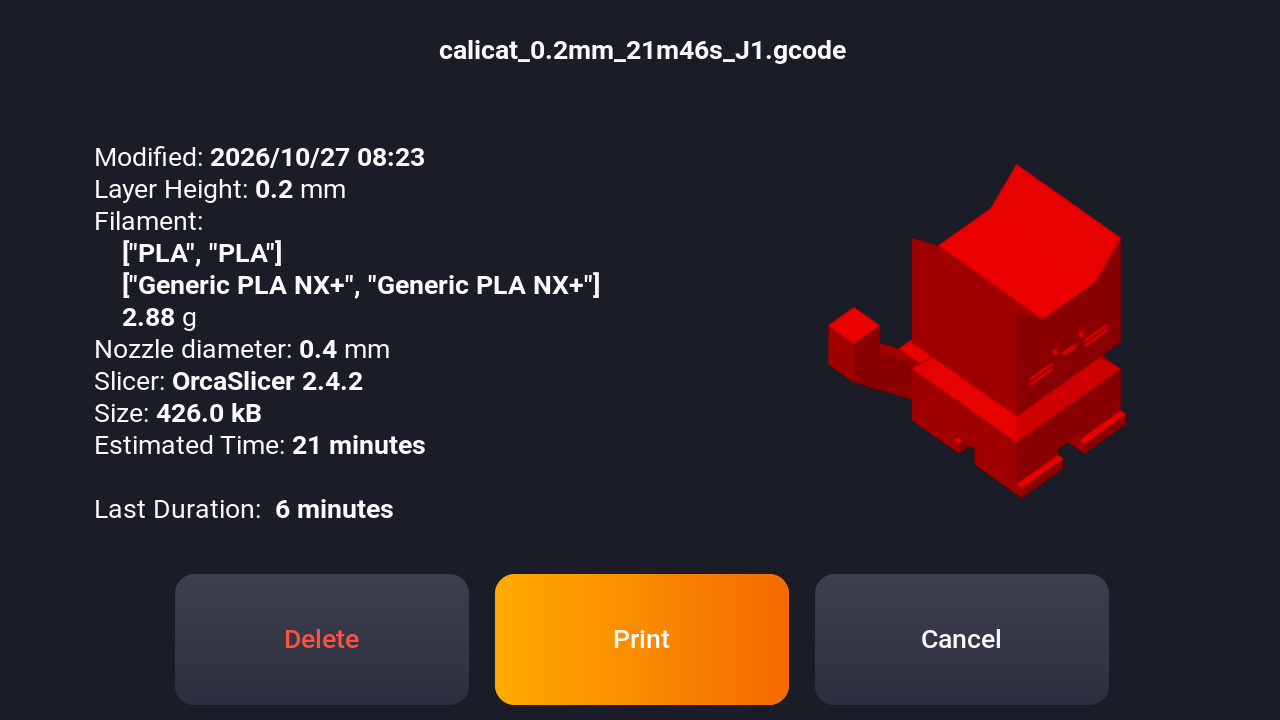
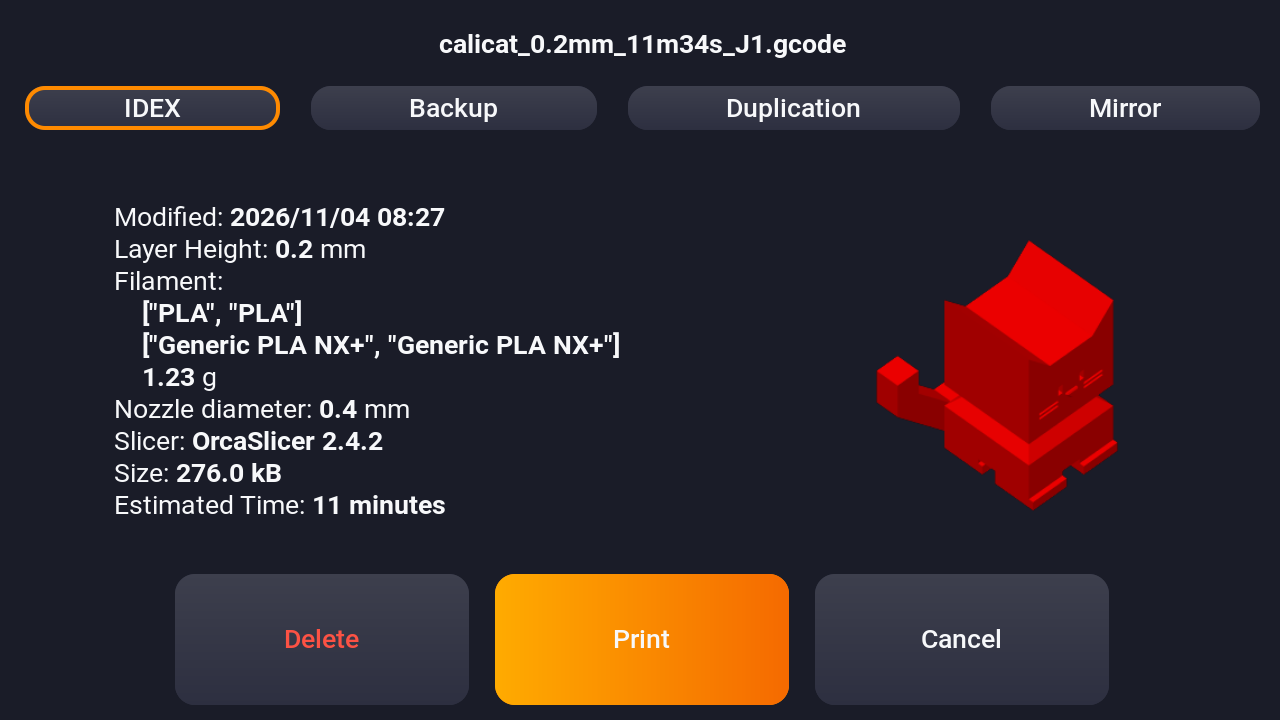
Print mode: Six files per page, docs and screenshots of the print mode
Eight files did not fit the dialog of Mainsail without scrolling; the filament length is shown as in the file list of Mainsail.  The manual and README describe the print mode choice, the retraction warning and the Mainsail panel, with new screenshots; web-macros.png is gone with the long macro panel.

Changed region(s): [[0.0, 0.1222, 1.0, 0.7333], [0.625, 0.2139, 0.875, 0.7028], [0.3438, 0.0306, 0.6562, 0.0917]]

diff --git a/klippy/extras/snapmaker_j1.py b/klippy/extras/snapmaker_j1.py
@@ -56,8 +56,9 @@ MODE_NAMES = {'FULL_CONTROL': 'IDEX', 'BACKUP': 'Backup',
               'DUPLICATION': 'Duplication', 'MIRROR': 'Mirror'}
 # Retraction distance above which a print asks first (stock)
 MAX_RETRACTION = 2.
-# Files offered by SNAPMAKER_PRINT_MODE (the newest first)
-PM_FILES = 8
+# Files per page of SNAPMAKER_PRINT_MODE (the newest first); more do not
+# fit the dialog of Mainsail without scrolling
+PM_FILES = 6
 
 def load_print_file():
     spec = importlib.util.spec_from_file_location('snapmaker_j1_print_file',

diff --git a/scripts/snapmaker_j1_print_file.py b/scripts/snapmaker_j1_print_file.py
@@ -329,7 +329,9 @@ def summary(path):
     if time:
         parts.append("Print time: " + time)
     if length:
-        parts.append("Filament: %.0f mm" % length)
+        # As in the file list of Mainsail
+        parts.append("Filament: %.2f m" % (length / 1000.) if length >= 1000.
+                     else "Filament: %.0f mm" % length)
     return ", ".join(parts)
 
 

diff --git a/docs/Manual.md b/docs/Manual.md
@@ -104,7 +104,8 @@ slicer.  You can sort them by name, date or size.  The folder
 
 Tapping a file shows its details: layer height, filament, nozzle
 diameter, slicer, estimated time and the duration of the last print.
-**Print** starts it, **Delete** removes the file.
+The buttons at the top choose the [print mode](#print-modes).  **Print**
+starts the file, **Delete** removes it.
 
 ### Nozzle diameter check
 
@@ -119,6 +120,21 @@ differ, it asks before printing:
 
 The nozzles are detected by the identification resistor in the hotend.
 The same dialog also appears in Mainsail and Fluidd.
+
+### Retraction warning
+
+![Inappropriate retraction distance](manual/retraction-check.png)
+
+As on the stock display, a file that retracts more than 2 mm asks first,
+because that can clog the nozzle.  The dialog follows the nozzle diameter
+check, for every print start (touch screen, web interface, slicer):
+
+- **Cancel:** the print is not started.
+- **Continue Anyway:** the print starts.
+
+The value comes from the slicer settings in the file; in OrcaSlicer, the
+retraction of the filament profile counts if it sets one, otherwise that
+of the printer profile.
 
 ### Print modes
 
@@ -149,23 +165,9 @@ The purge line of the start G-code stays where it is and does not count
 its first layer on.  For that the printer prints a copy of the file from
 the folder `snapmaker_j1/print_mode` (only the last one is kept).
 
-In Mainsail or Fluidd, the macro **SNAPMAKER_PRINT_MODE** opens the same
-choice as a dialog: first the file (a list of the newest, eight per page,
-with print time and filament), then the mode; a print started without it
-prints in the mode of the file.  Mainsail shows it in the panel
-**Snapmaker J1** at the top of its dashboard (while paused, also heating
-the print again).  The printer sets this panel up once, as long as the
-macros of Mainsail are not set up otherwise (Mainsail then uses its
-expert macro mode; Settings → Macros switches back), and shows the
-dialogs of macros as lists (`.theme/custom.css` in the configuration,
-unless it holds a theme of your own).
-
 Reading a large file takes a few seconds; the mode buttons work once it
-is done.
-
-Like the nozzle diameter check, every print start asks first if the file
-retracts more than 2 mm (risk of a clogged nozzle): **Cancel** or
-**Continue Anyway**.
+is done.  In the web interface, the [print mode](#print-mode-in-the-browser)
+is chosen with a macro.
 
 During the print, the print page shows the mode next to the elapsed time,
 and the part fans of both toolheads.
@@ -720,7 +722,8 @@ always show the same state.
 
 ![Mainsail dashboard](manual/web-dashboard.png)
 
-The dashboard shows the printer state with the recent files, the
+The dashboard shows the printer state with the recent files, the panel
+**Snapmaker J1** with the [print mode](#print-mode-in-the-browser), the
 temperatures of **Extruder** (left nozzle), **Extruder1** (right nozzle)
 and **Heater Bed** with their history, the toolhead and the console.
 
@@ -750,23 +753,49 @@ and **Heater Bed** with their history, the toolhead and the console.
 
 ![Nozzle diameter dialog in Mainsail](manual/web-prompt.png)
 
-The [nozzle diameter check](#nozzle-diameter-check) at the start of a
-print and the [missing hotend](#missing-hotend) message appear in the
-browser as well as on the touch screen; answering in one place closes the
+The [nozzle diameter check](#nozzle-diameter-check) and the
+[retraction warning](#retraction-warning) at the start of a print and the
+[missing hotend](#missing-hotend) message appear in the browser as well as on the touch screen; answering in one place closes the
 dialog in the other.  The filament runout and change dialog and the
 [power loss recovery](#power-loss-recovery) are shown on the touch
 screen only: in the browser, a paused print is continued with
 **Resume**.
 
+### Print mode in the browser
+
+<img src="manual/web-panel.png" width="474">
+
+A print started with **Upload & Print** or in **G-Code Files** prints in
+the mode of the file.  To choose another mode, tap
+**SNAPMAKER PRINT MODE** in the panel **Snapmaker J1**.  While a print is
+paused, the panel also offers **SNAPMAKER PAUSE HEAT** (heat the print
+again).
+
+<table>
+<tr><td><img src="manual/web-print-mode-files.png" width="400"><br>1. Choose the file: the newest first, six per page (<b>Older</b> and <b>Newer</b> turn the pages).</td>
+<td><img src="manual/web-print-mode.png" width="400"><br>2. Choose the mode: the mode of the file is highlighted, a mode that does not fit the file is listed with the reason.  The print starts with this tap.</td></tr>
+</table>
+
+The checks and the moving of the print are those of the
+[touch screen](#print-modes).  In Fluidd, the macro
+`SNAPMAKER_PRINT_MODE` opens the same dialogs.
+
+The printer sets the panel up once, as long as the macros of Mainsail are
+not set up otherwise: Mainsail then uses its expert macro mode, without
+the long **Macros** panel (**Settings → Macros** switches back).  The
+list look of these dialogs comes from `.theme/custom.css` in the
+configuration, which the printer writes unless it holds a theme of your
+own.
+
 ### Macros
 
-<img src="manual/web-macros.png" width="420">
-
-The **Macros** panel lists the J1 commands, among them:
+All J1 commands can be typed in the console, or be added to a panel in
+**Settings → Macros**, among them:
 
 | Macro | Function |
 | --- | --- |
 | `SNAPMAKER_LOAD_FILAMENT`, `SNAPMAKER_UNLOAD_FILAMENT` | heat a toolhead and load or unload filament (`TOOL=0` or `1`) |
+| `SNAPMAKER_PRINT_MODE` | [choose a file and its print mode](#print-mode-in-the-browser) (`FILENAME=` skips the file list) |
 | `SNAPMAKER_SET_PRINT_MODE` | IDEX mode: full control, duplication, mirror, backup |
 | `SNAPMAKER_NOISE_MODE` | stock noise mode: normal, silent, loud |
 | `SNAPMAKER_SET_PAUSE_STANDBY`, `SNAPMAKER_PAUSE_HEAT` | [pause standby](#pause-standby) and heating a paused print again |
@@ -841,8 +870,8 @@ host with `snapmaker-j1.local`.
 
 | Area | Function |
 | --- | --- |
-| Printing | IDEX, duplication, mirror and backup mode from the file header; tool changes with parking; pause and resume with parking, priming and wiping |
-| Print start | nozzle diameter check against the installed nozzles |
+| Printing | IDEX, duplication, mirror and backup mode from the file or chosen on the touch screen or in the browser, with the model moved in X; tool changes with parking; pause and resume with parking, priming and wiping |
+| Print start | nozzle diameter check against the installed nozzles, retraction warning above 2 mm |
 | Filament | motion sensors on both toolheads, runout and change dialog, load and unload beside the wipers |
 | Power loss | recovery of the interrupted print, offered on the screen at the next start |
 | Calibration | bed leveling, Z offset, XY offset (assisted and manual), offset check, vibration compensation, PID auto tune, build plate thickness |

diff --git a/README.md b/README.md
@@ -92,8 +92,10 @@ results are stored at once, without a restart.
 ### Two toolheads, all IDEX modes
 
 Full control, duplication, mirror and backup mode, taken from the print
-file.  Both nozzles are checked against the file before the print
-starts.
+file or chosen before the print, on the touch screen or in the browser:
+the printer moves the model to where the mode needs it.  Before the print
+starts, both nozzles are checked against the file, and too long a
+retraction gets a warning.
 
 <table>
 <tr>
@@ -101,8 +103,8 @@ starts.
 <td><img src="docs/manual/nozzle-check.png" width="420" alt="Nozzle diameter check"></td>
 </tr>
 <tr>
-<td>Print files with thumbnail and slicer data</td>
-<td>Nozzle check before the print</td>
+<td>Print files with thumbnail, slicer data and the print mode</td>
+<td>Checks before the print</td>
 </tr>
 </table>
 
@@ -130,8 +132,8 @@ interrupted by a power loss.
 </p>
 
 Mainsail runs on the printer: open `http://snapmaker-j1.local`.  The
-dialogs of the printer appear there too, and the slicer uploads and
-starts prints directly.
+dialogs of the printer appear there too, the panel **Snapmaker J1**
+chooses the print mode, and the slicer uploads and starts prints directly.
 
 **See every screen in the [user manual](docs/Manual.md).**
 

diff --git a/docs/Snapmaker_J1.md b/docs/Snapmaker_J1.md
@@ -254,10 +254,17 @@ nozzle_id_pin_t1: PA6
 Commands: `SNAPMAKER_QUERY_HARDWARE` reports the detected board revision
 and nozzle types; `SNAPMAKER_FILE_MODE FILENAME=<file>` selects the IDEX
 mode from the file header; `SNAPMAKER_CHECK_NOZZLES FILENAME=<file>`
-compares the nozzle diameters of a file with the installed nozzles.
+compares the nozzle diameters of a file with the installed nozzles and
+reads its retraction distance.  The macro `SNAPMAKER_PRINT_MODE
+[FILENAME=<file>]` offers the print modes of a file for the web interface
+(`action:prompt`), with the checks of `scripts/snapmaker_j1_print_file.py`
+that the print dialog of the touch screen uses too; the KlipperScreen
+add-on sets up its Mainsail panel and dialog look (`web_panel.py`,
+`mainsail.css`).
 Status: `hardware_version`, `detected_hardware_version`, `nozzle_t0`,
 `nozzle_t1` (`material`, `diameter`, `adc_mv`), `nozzle_check`
-(`filename`, `mismatch`, `file`, `machine`), `bed_feedback`.
+(`filename`, `mismatch`, `file`, `machine`, `retraction`, `mode`,
+`x_offset`), `bed_feedback`.
 
 Like the stock display, `SDCARD_PRINT_FILE` asks before printing a file
 made for other nozzle diameters.  The diameters come from the header
